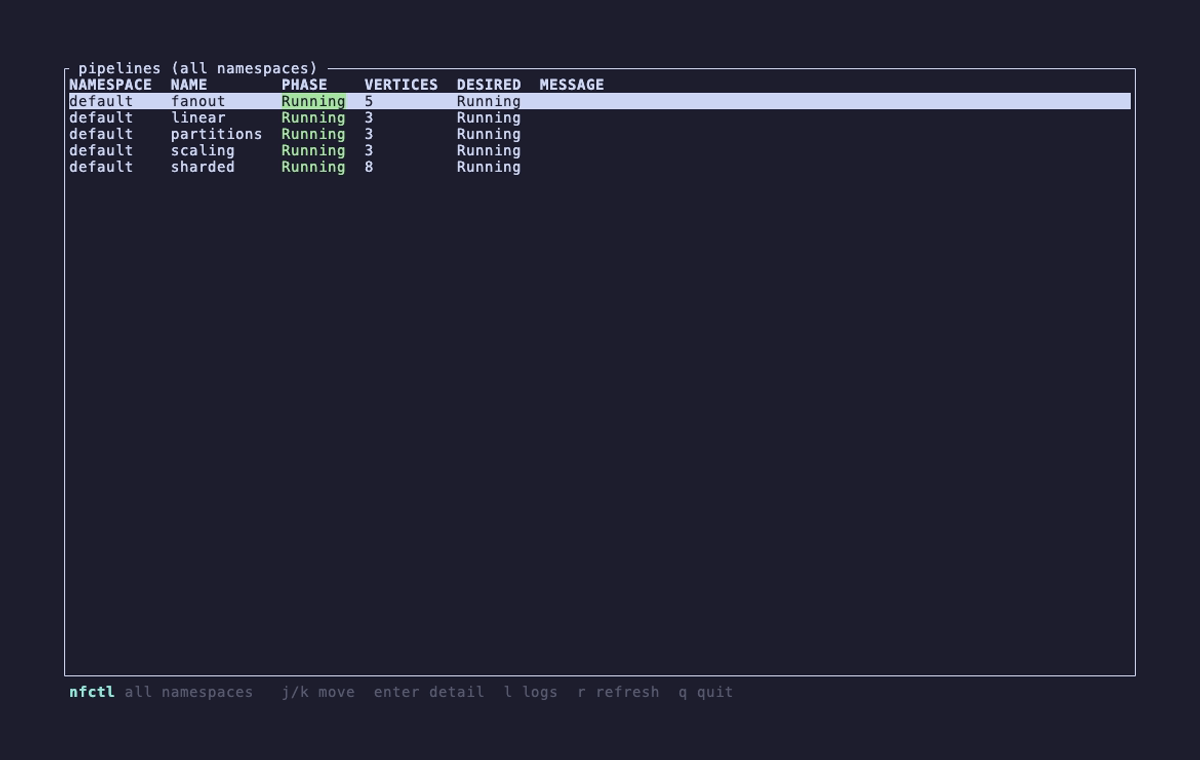
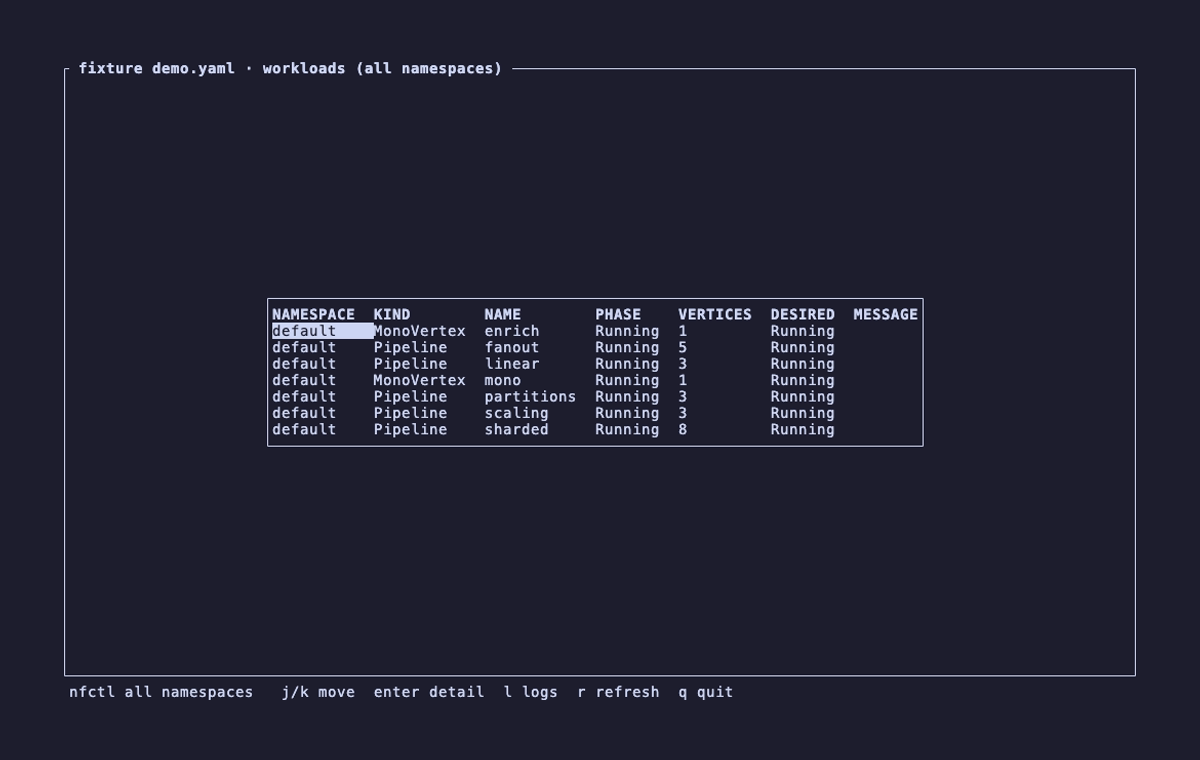
docs: prepare nfctl for its alpha release (#6)
nfctl now leads with installation, first commands, and a current TUI
demonstration.

The release docs and roadmap distinguish configured distribution from
the first unpublished alpha. Deterministic demos were regenerated, stale
TUI navigation was corrected, and the cluster-only recordings are
identified clearly.

Release workflows use the App client ID, and crate manifests no longer
emit conflicting license metadata warnings.

Verified with actionlint, the full CI suite, rustdoc, Cargo metadata and
workspace checks, and visual review of the generated demos.

diff --git a/README.md b/README.md
@@ -9,8 +9,41 @@ things in one static binary, with machine-readable output for command results an
 `--dry-run` on every mutating one. Streaming `-o json` is NDJSON: one complete
 JSON object per line.
 
-> Status: pre-alpha. Commands below work against Numaflow 1.6+. ServingPipeline is
-> not covered yet; see [docs/roadmap.md](docs/roadmap.md).
+> Status: alpha. Commands below work against Numaflow 1.6+. Interfaces may
+> change before 1.0. ServingPipeline is not covered yet; see
+> [docs/roadmap.md](docs/roadmap.md).
+
+## Install
+
+After the first alpha release:
+
+```console
+brew install txmxthy/tap/nfctl
+```
+
+Published releases include prebuilt archives for macOS and Linux. Until then,
+build from a checkout with `cargo install --path crates/nfctl-cli`.
+
+## Quick start
+
+Point your current kube context at a Numaflow cluster, then run:
+
+```console
+nfctl ls
+nfctl dag pipeline-name
+nfctl status pipeline-name
+nfctl tui
+```
+
+To explore without a cluster:
+
+```console
+git clone https://github.com/txmxthy/nfctl.git
+cd nfctl
+nfctl --fixture examples/fixtures/demo.yaml tui
+```
+
+![nfctl TUI demo](docs/demo/tui.gif)
 
 ## Commands
 
@@ -34,9 +67,10 @@ nfctl completions <shell>                 tab-completes resource names from the 
 nfctl map                                 every command and option as one tree
 ```
 
-Global flags: `-n/--namespace`, `--context`, `--request-timeout`, `-o`, `--daemon-url`
-(skip the port-forward when running in-cluster), `--fixture` (no cluster at all),
-`--no-color` (`NO_COLOR` in the environment does the same).
+Global flags: `-n/--namespace`, `--context`, `--request-timeout`, `-o`,
+`--daemon-url` (skip the automatic port-forward), `--daemon-insecure`
+(accept a self-signed daemon certificate), `--fixture` (no cluster at all),
+`--timings`, and `--no-color` (`NO_COLOR` does the same).
 
 Without `-n`, lists span every namespace and a bare name resolves to the namespace
 it lives in; the tool refuses only when the same name exists in several. `get`
@@ -97,15 +131,7 @@ cat -> out  0        10           0%     no    2s ago
 Runtime numbers come from the pipeline's daemon, reached through an automatic
 port-forward; if the daemon is unreachable the CRD half still renders with a warning.
 
-## Install
-
-```
-brew install txmxthy/tap/nfctl
-```
-
-Prebuilt archives for macOS and Linux are attached to each
-[GitHub release](https://github.com/txmxthy/nfctl/releases). To build from a
-checkout instead, run `cargo install --path crates/nfctl-cli`.
+## Shell completion
 
 Shell completion is dynamic: it completes pipeline, vertex, MonoVertex, ISB and
 namespace names from the cluster you are pointed at (or from `--fixture`), with a
@@ -140,9 +166,12 @@ stills used to review layout, so what is tested is what is shown.
 | ![sharded detail](docs/demo/tui-sharded.png) | ![dag](docs/demo/dag.png) |
 | ![status](docs/demo/status.png) | |
 
-Animated: [tui](docs/demo/tui.gif) · [ls](docs/demo/ls.gif) · [logs through a pod
-restart](docs/demo/logs.gif) · [top](docs/demo/top.gif) · [pause and resume](docs/demo/pause.gif)
-· [apply --check](docs/demo/apply.gif) · [recycle](docs/demo/recycle.gif)
+Animated fixture demos: [tui](docs/demo/tui.gif) · [ls](docs/demo/ls.gif) ·
+[dag](docs/demo/dag.gif) · [status](docs/demo/status.gif).
+
+The cluster-backed logs, top, lifecycle and apply tapes live in
+[`docs/demo`](docs/demo/demo.md) and are regenerated against a local Numaflow
+cluster.
 
 `just gallery` renders every fixture pipeline through the card view and `dag`
 into one HTML page you can draw on; see [CONTRIBUTING](CONTRIBUTING.md#looking-at-layouts).

diff --git a/docs/demo/demo.md b/docs/demo/demo.md
@@ -8,11 +8,11 @@ The rest run against the local demo cluster.
 Everything cluster-bound runs against a local cluster only. `just demo-up` installs
 Numaflow into the current local context and applies `examples/`.
 
-```
-just demo-up      # Numaflow + ISB + four example pipelines, waits for Running
+```console
+just demo-up         # Numaflow + ISB + example workloads, waits for Running
 just record          # every tape (cluster ones need `just demo-up` first)
 just record-fixture  # only the fixture-driven tapes: no cluster needed
-just demo-down    # removes everything again
+just demo-down       # removes everything again
 ```
 
 Script, one tape per step:
@@ -26,5 +26,6 @@ Script, one tape per step:
 7. `recycle` a vertex and watch the replacement pod pick up in `logs -f`.
 8. `tui`: list → detail → vertex logs and back, then the sharded pipeline collapsed and expanded (`x`).
 
-The gifs next to the tapes are what `just record` produced last. The tapes assume a shell with `nfctl` on PATH and the local context selected
+The GIFs next to the tapes are generated outputs from `just record`. The tapes
+assume a shell with `nfctl` on `PATH` and the local context selected
 (`NFCTL_CONTEXT=<local-context>` works too).

diff --git a/docs/releasing.md b/docs/releasing.md
@@ -6,6 +6,9 @@ changelog. A `fix`, `feat`, `perf` or `refactor` change opens or updates the
 release PR; a breaking `!` change receives the corresponding Cargo SemVer bump.
 CI and documentation changes alone do not cut a release.
 
+Versions below 1.0 are alpha releases. Use a SemVer prerelease suffix only when
+the release must not update the stable Homebrew formula.
+
 After the release PR is squash-merged, release-plz creates the matching
 `vX.Y.Z` tag. Cargo-dist 0.33.0 then runs normal CI and builds archives for:
 
@@ -28,3 +31,7 @@ To release:
 
 Pull requests run the cargo-dist plan but do not build or publish artifacts.
 Prereleases never update the stable Homebrew formula.
+
+The release workflows authenticate as the release GitHub App. The repository
+stores its client ID in `RELEASE_APP_CLIENT_ID` and its private key in the
+`RELEASE_APP_PRIVATE_KEY` Actions secret.

diff --git a/docs/roadmap.md b/docs/roadmap.md
@@ -23,10 +23,10 @@
 | `completions` from live resources (dynamic) | done | M11 |
 | docs + ADRs 0006–0008 | done | M12 |
 | `isb ls` namespace column, rolling `recycle` | done | M13 |
-| TUI load timings and faster detail panel | planned | M14 |
+| TUI load timings and concurrent detail-panel metrics | done | M14 |
 | layout gallery (`just gallery`) | done | — |
 | straight chains, no framed cards, short back edges | planned | M15 |
 | ServingPipeline | planned | later |
-| prebuilt binaries, Homebrew tap | planned | later |
+| prebuilt binaries, attestations and Homebrew tap | wip | release |
 
 Statuses: `done` · `wip` · `stub` (command exists, exits 4 with this pointer) · `planned`.
